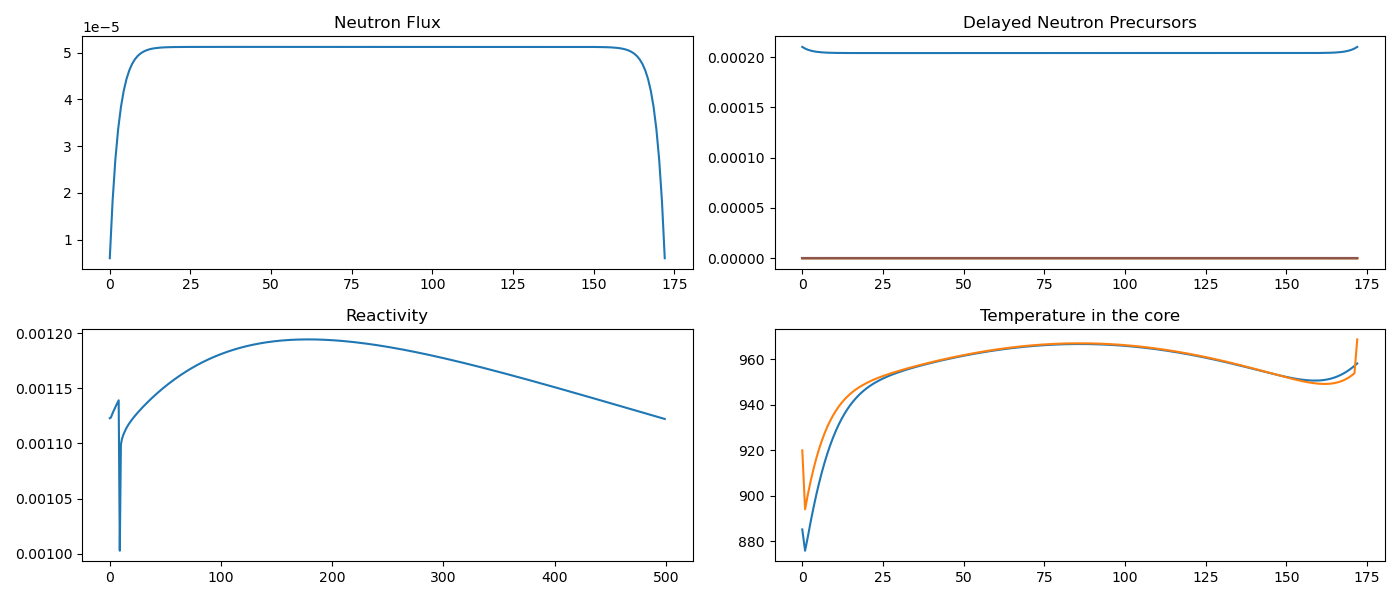
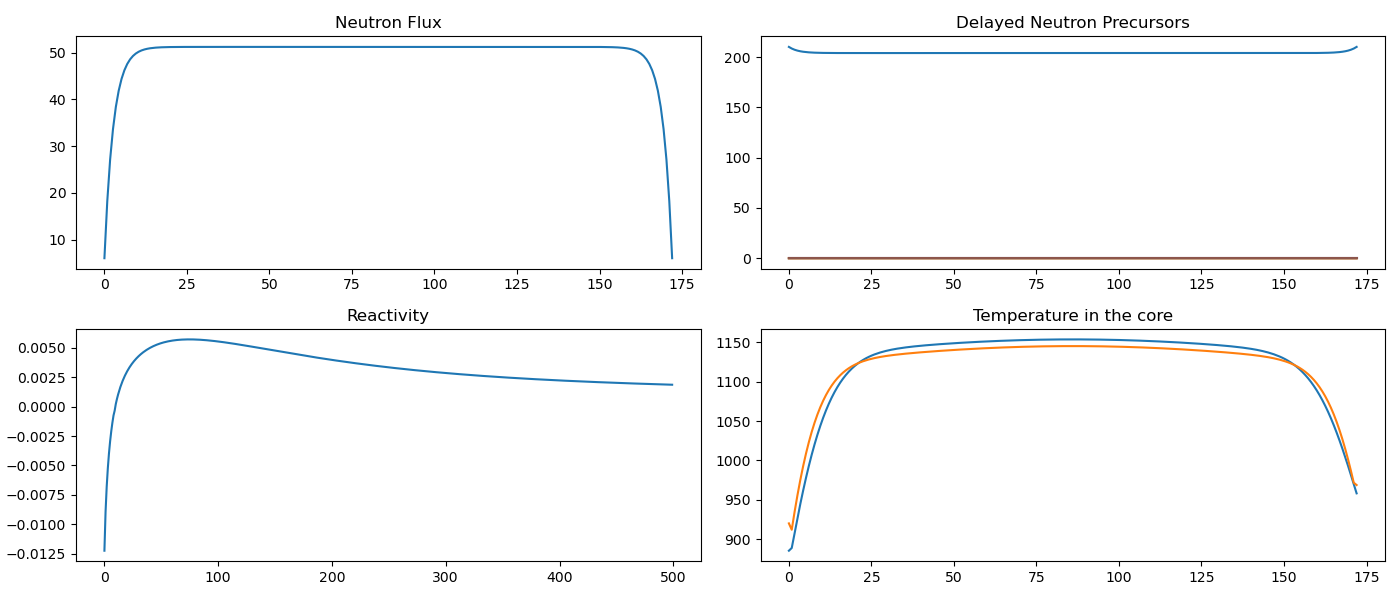
modify some parameters

diff --git a/parameters.py b/parameters.py
@@ -10,6 +10,7 @@ V = 4e5
 D = 0.390016          
 sigma_a =0.0835           
 nu_sigma_f = 3.33029e-2
+# nu_sigma_f = 3.33029
 # sigma_f= nu_sigma_f/2.41   
 beta = [0.000228, 0.000788, 0.000664, 0.000736, 0.000136, 0.000088] # Delayed neutron fractions
 Beta = sum(beta)
@@ -17,7 +18,7 @@ delta=Beta*nu_sigma_f
 # beta2 = [0.000228, 0.000788, 0.000664, 0.000736, 0.000136, 0.000088]
 lambda_i = [0.0126, 0.0337, 0.139, 0.325, 1.13, 2.5]    # Decay constants
 # initial condition
-phi_0=5226.54 * np.ones(N); #5226.54
+phi_0=5226.54 * 1e6 * np.ones(N); #5226.54
 c0 = (delta / sum(lambda_i)) * phi_0
 
 # Thermal-Hydraulics
@@ -43,9 +44,10 @@ bc_gL = 968.71
 # bc_g0 = 931.15;
 # bc_gL = 931.15;
 # Initial conditions
-initialS = (bc_s0 + (bc_sL - bc_s0) * (0.5 + 0.5 * np.sin(np.pi * (np.linspace(0, L, N) ) / L))).T
+initialS = (bc_s0 + (bc_sL - bc_s0) * (0.5 + 0.5 * np.sin(np.pi * (np.linspace(0, L, N) ) / L)) * 0.8).T
 initialG = (bc_g0 + (bc_gL - bc_g0) * (0.5 + 0.5 * np.sin(np.pi * (np.linspace(0, L, N) ) / L)) * 1.05).T
-
+referenceS=1121
+referenceG=1118
 # Heat Exchanger 1
 Nx = N  # Number of spatial points
 L_HX = 2    # length of the spatial domain
@@ -84,7 +86,7 @@ u2_init = u2_L + (u2_H - u2_L) * (0.5 + 0.7 * np.sin(np.pi * (np.linspace(0, L_H
 v2_init = v2_L + (v2_H - v2_L) * (0.5 + 0.7 * np.sin(np.pi * (np.linspace(0, L_HX2, Nx) / L_HX2))* 1.05).T
 
 # Reactivity
-rho_init=0
+rho_init=50
 alpha_f    = -5.904E-5  # U233 (drho/K) fuel salt temperature-reactivity feedback coefficient ORNL-TM-1647 p.3 % -5.904E-05; % ORNL-TM-0728 p. 101 %
 alpha_g    = -6.624E-5  # U233  (drho/K) graphite temperature-reactivity feedback coefficient ORNL-TM-1647 p.3 % -6.624E-05; % ORNL-TM-0728 p.101
 tau_l  = 16.73  # ORNL-TM-0728 %16.44; % (s)
@@ -96,8 +98,8 @@ tau_hx_c = 9 # (sec) delay from hx to core TDAMSRE p.6
 tau_c_hx = 4 # (sec) subtracted 1 sec for external loop power generation node resident time; delay from core to fuel hx TDAMSRE p.6
 tau_hx_r = 5 # (sec) fertile hx to core TDAMSRE p.6
 tau_r_hx = 8 # (sec) core to fertile hx TDAMSRE p.6
-tau_r_pp = 10 # TODO:delay from HX2 to the power plant, to be fixed
-tau_pp_r = 10 # TODO:delay from the power plant to HX2, to be fixed
+tau_r_pp = 6 # TODO:delay from HX2 to the power plant, to be fixed
+tau_pp_r = 6 # TODO:delay from the power plant to HX2, to be fixed
 # Initial conditions - DONE
 Ts_in=bc_s0
 Ts_out=bc_sL

diff --git a/main.py b/main.py
@@ -15,10 +15,10 @@ from HX2 import HX2
 from transport_delay import transport_delay
 from power_plant import power_plant_temp
 
-time_span = 50000
+time_span = 5000
 
 # reactivity insertion rod
-rho_insertion = 0  # pcm
+rho_insertion = 50  # pcm
 
 # initialization
 rho=rho_init*1e-5
@@ -66,7 +66,9 @@ for step in range (time_span):
     # print("size of buffer_hx_c: " + str(len(buffer_hx_c)))
     y_th = thermal_hydraulics(y_th, q_prime, Ts_core_0, step)
     temperature_fuel = y_th[:N, -1].T
+    print("avg of fuel: "+str(np.sum(temperature_fuel/N)))
     temperature_graphite = y_th[N:, -1].T
+    print("avg of graphite: "+str(np.sum(temperature_graphite/N)))
     Ts_core_L = y_th[-1, -1]
     temperature_fuel_middle_matrix[step] = temperature_fuel[int(N/2)]
     
@@ -147,7 +149,7 @@ plt.close(fig)  # Close the figure to free memory
 # Third plot: Delayed Neutron Precursors with time in the middle
 fig, ax = plt.subplots(figsize=(14, 6))
 for i in range(6):
-    ax.plot(ci_middle_matrix[i*N:(i+1)*N], label=f'Ci{i+1}')
+    ax.plot(ci_middle_matrix[:,i], label=f'Ci{i+1}')
 ax.set_title('Delayed Neutron Precursors with time in the middle')
 
 plt.tight_layout()

diff --git a/reactivity.py b/reactivity.py
@@ -38,7 +38,7 @@ def reactivity(temperature_fuel, temperature_graphite, step, time_span, rho_inse
     else:
         react = reactdata[1]
         
-    rho_feedback=np.sum((initialS-temperature_fuel)*alpha_f)/N+np.sum((initialG-temperature_graphite)*alpha_g)/N
+    rho_feedback=(referenceS-np.sum(temperature_fuel)/N)*alpha_f+(referenceG-np.sum(temperature_graphite)/N)*alpha_g
     
     rho=rho_0+rho_feedback+react
     
